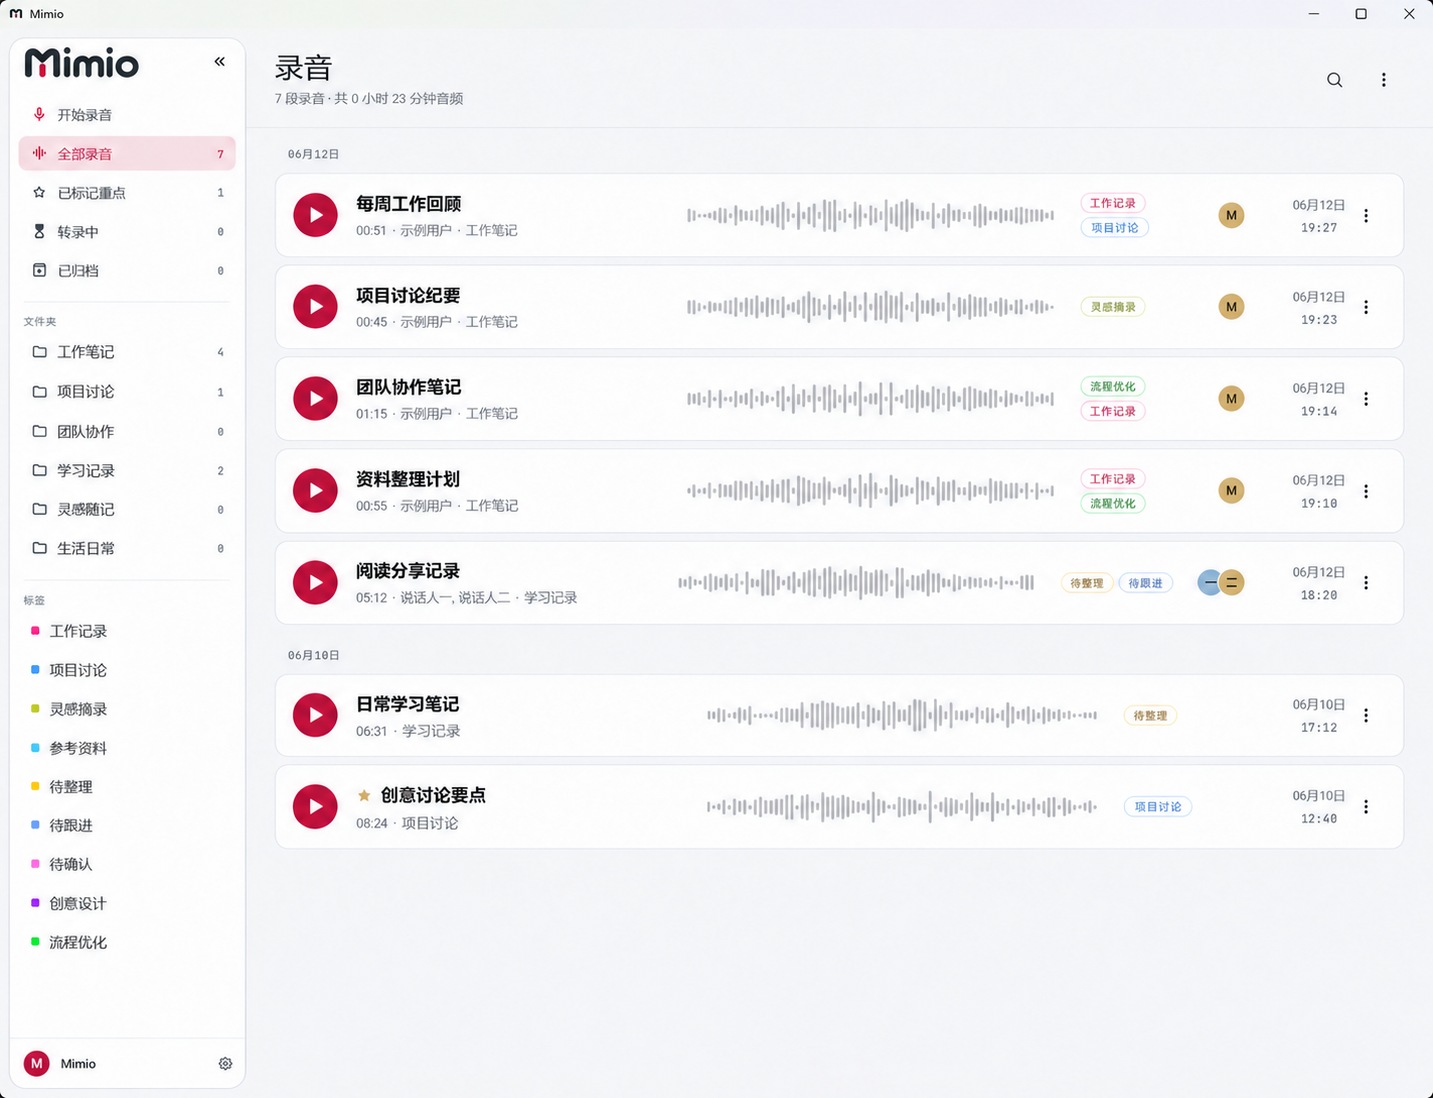
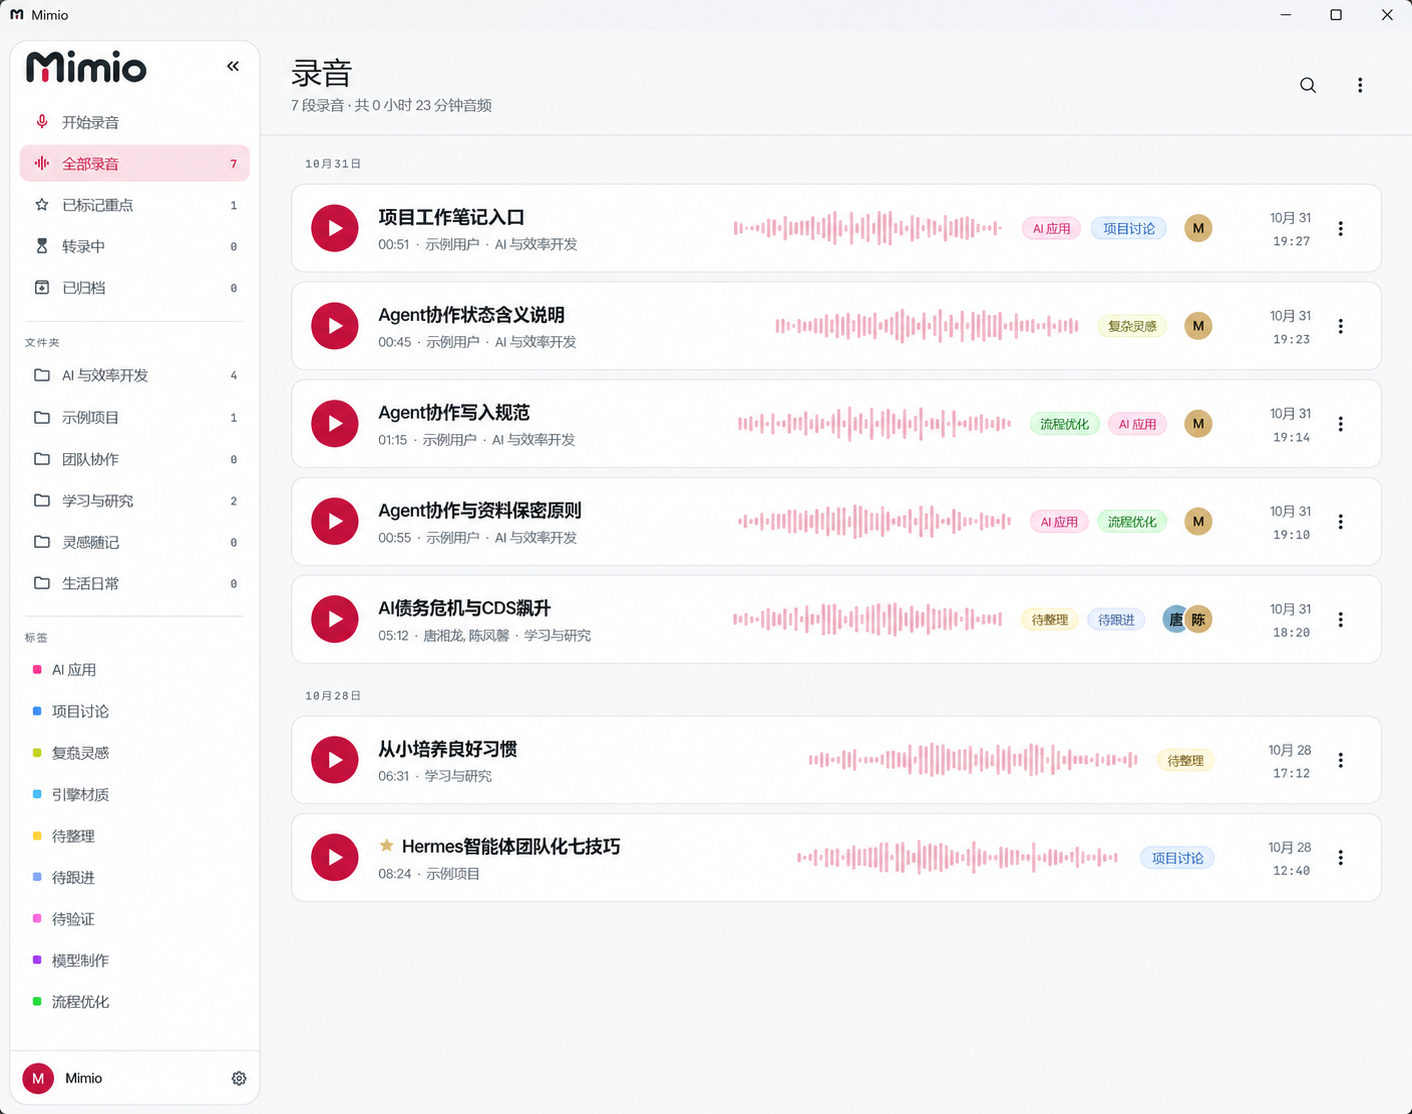
Polish library layout and refresh privacy-edited screenshots for 0.3.40

diff --git a/lib/widgets/tag_chip.dart b/lib/widgets/tag_chip.dart
@@ -6,9 +6,8 @@ import '../theme/appearance.dart';
 import '../theme/typography.dart';
 
 class TagChip extends StatelessWidget {
-  const TagChip({super.key, required this.tag, this.filled = false});
+  const TagChip({super.key, required this.tag});
   final Tag tag;
-  final bool filled;
 
   @override
   Widget build(BuildContext context) {
@@ -16,14 +15,16 @@ class TagChip extends StatelessWidget {
     final c = parseHexColor(tag.color);
     return Container(
       padding: const EdgeInsets.symmetric(horizontal: 9, vertical: 2),
-      decoration: BoxDecoration(
-        color: filled ? c.withValues(alpha: 0.06) : null,
-        border: Border.all(color: c.withValues(alpha: 0.33)),
-        borderRadius: BorderRadius.circular(100),
-      ),
+      decoration: _tagDecoration(c),
       child: Text(
-        tag.name.toUpperCase(),
-        style: SpeakrText.mono(size: 10, color: _tagInk(c), letterSpacing: 1),
+        tag.name,
+        maxLines: 1,
+        overflow: TextOverflow.ellipsis,
+        style: SpeakrText.sans(
+          size: 11,
+          weight: FontWeight.w400,
+          color: _tagInk(c, background: _tagBackground(c)),
+        ),
       ),
     );
   }
@@ -34,13 +35,11 @@ class CustomColorTagChip extends StatelessWidget {
     super.key,
     required this.label,
     required this.color,
-    this.filled = false,
     this.trailing,
     this.onTap,
   });
   final String label;
   final Color color;
-  final bool filled;
   final Widget? trailing;
   final VoidCallback? onTap;
 
@@ -48,18 +47,18 @@ class CustomColorTagChip extends StatelessWidget {
   Widget build(BuildContext context) {
     AppearanceScope.watch(context);
     final inner = Container(
-      padding: const EdgeInsets.symmetric(horizontal: 9, vertical: 4),
-      decoration: BoxDecoration(
-        color: filled ? color.withValues(alpha: 0.06) : null,
-        border: Border.all(color: color.withValues(alpha: 0.33)),
-        borderRadius: BorderRadius.circular(100),
-      ),
+      padding: const EdgeInsets.symmetric(horizontal: 9, vertical: 2),
+      decoration: _tagDecoration(color),
       child: Row(
         mainAxisSize: MainAxisSize.min,
         children: [
           Text(
-            label.toUpperCase(),
-            style: SpeakrText.sans(size: 11, color: _tagInk(color)),
+            label,
+            style: SpeakrText.sans(
+              size: 11,
+              weight: FontWeight.w400,
+              color: _tagInk(color, background: _tagBackground(color)),
+            ),
           ),
           if (trailing != null) const SizedBox(width: 5),
           if (trailing != null) trailing!,
@@ -142,15 +141,29 @@ class _DashedBorderPainter extends CustomPainter {
   bool shouldRepaint(covariant _DashedBorderPainter old) => old.color != color;
 }
 
-// Keep category hues while ensuring readable text on either theme.
-Color _tagInk(Color source) {
+// Opaque, softly tinted surfaces keep tag contrast consistent across parents.
+Color _tagBackground(Color source) => Color.alphaBlend(
+  source.withValues(alpha: SpeakrColors.isDark ? .20 : .13),
+  SpeakrColors.surface,
+);
+
+BoxDecoration _tagDecoration(Color source) => BoxDecoration(
+  color: _tagBackground(source),
+  border: Border.all(
+    color: source.withValues(alpha: SpeakrColors.isDark ? .22 : .12),
+  ),
+  borderRadius: BorderRadius.circular(100),
+);
+
+// Keep category hues while ensuring readable text on the actual tinted surface.
+Color _tagInk(Color source, {Color? background}) {
   var result = source;
-  final background = SpeakrColors.bgAlt.computeLuminance();
+  final luminance = (background ?? SpeakrColors.bgAlt).computeLuminance();
   for (var i = 0; i < 24; i++) {
     final l = result.computeLuminance();
     final ratio =
-        (l > background ? l + .05 : background + .05) /
-        (l > background ? background + .05 : l + .05);
+        (l > luminance ? l + .05 : luminance + .05) /
+        (l > luminance ? luminance + .05 : l + .05);
     if (ratio >= 4.5) break;
     result = Color.lerp(
       result,

diff --git a/test/desktop_library_test.dart b/test/desktop_library_test.dart
@@ -7,6 +7,8 @@ import 'package:intl/date_symbol_data_local.dart';
 import 'package:speakr_app/api/models.dart';
 import 'package:speakr_app/desktop/library/library_desktop_screen.dart';
 import 'package:speakr_app/desktop/shell/desktop_shell.dart';
+import 'package:speakr_app/desktop/widgets/desktop_wave.dart';
+import 'package:speakr_app/desktop/widgets/participant_avatars.dart';
 import 'package:speakr_app/features/library/library_controller.dart';
 import 'package:speakr_app/l10n/strings.dart';
 import 'package:speakr_app/services/preferences/time_format_preference.dart';
@@ -15,7 +17,7 @@ import 'package:speakr_app/theme/typography.dart';
 
 void main() {
   setUpAll(() => initializeDateFormatting('zh_CN'));
-  for (final width in [670.0, 1100.0]) {
+  for (final width in [670.0, 1100.0, 1600.0]) {
     testWidgets('Chinese library fits $width and play navigates explicitly', (
       tester,
     ) async {
@@ -59,7 +61,11 @@ void main() {
                     'status': 'COMPLETED',
                     'audio_duration': 500,
                     'created_at': '2026-10-28T08:00:00Z',
-                    'participants': '张明、王强、李娜',
+                    'participants': '张明、王强、李娜、陈林、赵敏、周宁、孙悦',
+                    'tags': [
+                      {'id': 1, 'name': 'AI 应用', 'color': '#ff3399'},
+                      {'id': 2, 'name': 'Project-AI', 'color': '#3388ff'},
+                    ],
                   }),
                 ),
               ],
@@ -81,6 +87,18 @@ void main() {
       );
       await tester.pumpAndSettle();
       expect(tester.takeException(), isNull);
+      expect(find.byType(DesktopWave), findsOneWidget);
+      if (width >= 1100) {
+        expect(find.text('+4'), findsOneWidget);
+        final gap =
+            tester.getTopLeft(find.byType(ParticipantAvatars)).dx -
+            tester.getTopRight(find.text('Project-AI')).dx;
+        expect(gap, inInclusiveRange(14, 30));
+        expect(
+          tester.getTopLeft(find.text('AI 应用')).dy,
+          tester.getTopLeft(find.text('Project-AI')).dy,
+        );
+      }
       await tester.tap(find.byTooltip('搜索 (Ctrl+K)'));
       await tester.pumpAndSettle();
       expect(find.byType(TextField), findsOneWidget);

diff --git a/lib/desktop/library/library_desktop_screen.dart b/lib/desktop/library/library_desktop_screen.dart
@@ -489,20 +489,22 @@ class _ListRowState extends ConsumerState<_ListRow> {
                         ],
                       ),
                     ),
-                    if (wide) ...[
-                      const SizedBox(width: 24),
+                    ...[
+                      const SizedBox(width: 16),
                       Expanded(
-                        flex: 6,
+                        flex: 4,
                         child: ExcludeSemantics(
                           child: DesktopWave(seed: r.id, height: 34),
                         ),
                       ),
-                      const SizedBox(width: 24),
-                      SizedBox(
-                        width: 120,
+                    ],
+                    if (wide && r.tags.isNotEmpty) ...[
+                      const SizedBox(width: 16),
+                      ConstrainedBox(
+                        constraints: const BoxConstraints(maxWidth: 240),
                         child: Wrap(
-                          spacing: 4,
-                          runSpacing: 4,
+                          spacing: 8,
+                          runSpacing: 6,
                           children: [
                             for (final t in r.tags.take(2)) TagChip(tag: t),
                           ],
@@ -510,7 +512,7 @@ class _ListRowState extends ConsumerState<_ListRow> {
                       ),
                     ],
                     if (wide && (r.participants ?? '').trim().isNotEmpty) ...[
-                      const SizedBox(width: 12),
+                      const SizedBox(width: 14),
                       ParticipantAvatars(participants: r.participants!),
                     ],
                     const SizedBox(width: 18),

diff --git a/lib/desktop/live/live_desktop_screen.dart b/lib/desktop/live/live_desktop_screen.dart
@@ -20,6 +20,7 @@ import '../../services/audio/live_audio_recorder.dart' show CaptureWindow;
 import '../../theme/colors.dart';
 import '../../theme/typography.dart';
 import '../../widgets/speakr_icons.dart';
+import '../../widgets/tag_chip.dart';
 import '../shell/desktop_shortcuts.dart';
 
 class LiveDesktopScreen extends ConsumerStatefulWidget {
@@ -536,11 +537,7 @@ class _RecordingIdentity extends ConsumerWidget {
                 InkWell(
                   onTap: () => controller.toggleTag(tag.name),
                   borderRadius: BorderRadius.circular(100),
-                  child: _IdentityChip(
-                    icon: Icons.sell_outlined,
-                    label: tag.name,
-                    color: parseHexColor(tag.color),
-                  ),
+                  child: TagChip(tag: tag),
                 ),
               MimioMenuButton<String>(
                 tooltip: tr('Tags'),
@@ -774,9 +771,7 @@ class _VideoSourceCard extends StatelessWidget {
             height: 8,
             decoration: BoxDecoration(
               shape: BoxShape.circle,
-              color: title != null
-                  ? SpeakrColors.ok
-                  : SpeakrColors.line,
+              color: title != null ? SpeakrColors.ok : SpeakrColors.line,
             ),
           ),
           const SizedBox(width: 12),

diff --git a/lib/desktop/detail/detail_desktop_screen.dart b/lib/desktop/detail/detail_desktop_screen.dart
@@ -263,9 +263,7 @@ class _DetailPanel extends StatelessWidget {
   const _DetailPanel({required this.child});
   final Widget child;
   @override
-  Widget build(BuildContext context) => MimioPanel(
-    child: child,
-  );
+  Widget build(BuildContext context) => MimioPanel(child: child);
 }
 
 class _TitleBlock extends ConsumerWidget {
@@ -329,7 +327,7 @@ class _TitleBlock extends ConsumerWidget {
                   label: folder.name,
                   color: parseHexColor(folder.color),
                 ),
-              for (final t in recording.tags) TagChip(tag: t, filled: true),
+              for (final t in recording.tags) TagChip(tag: t),
               if ((recording.participants ?? '').isNotEmpty)
                 _MetadataItem(
                   icon: Icons.people_outline,

diff --git a/lib/desktop/widgets/desktop_wave.dart b/lib/desktop/widgets/desktop_wave.dart
@@ -76,7 +76,7 @@ class _DesktopWaveState extends State<DesktopWave>
               painter: _WavePainter(
                 progress: widget.progress,
                 seed: widget.seed,
-                color: widget.color ?? SpeakrColors.ink,
+                color: widget.color ?? SpeakrColors.accent,
                 motion: _motion,
                 showPlayhead: widget.onSeek != null,
               ),

diff --git a/lib/features/live/widgets/recording_widgets.dart b/lib/features/live/widgets/recording_widgets.dart
@@ -453,7 +453,6 @@ class MetadataCard extends StatelessWidget {
                       CustomColorTagChip(
                         label: name,
                         color: _colorFor(name),
-                        filled: true,
                         onTap: tagPickerOpen ? () => onToggleTag(name) : null,
                         trailing: tagPickerOpen
                             ? Text(

diff --git a/lib/features/detail/widgets/folder_tags_editor.dart b/lib/features/detail/widgets/folder_tags_editor.dart
@@ -278,7 +278,6 @@ class _EditorCard extends StatelessWidget {
                     CustomColorTagChip(
                       label: t.name,
                       color: parseHexColor(t.color),
-                      filled: true,
                       onTap: () => onToggleTag(t),
                       trailing: Text(
                         '×',

diff --git a/lib/widgets/mini_wave.dart b/lib/widgets/mini_wave.dart
@@ -33,7 +33,7 @@ class MiniWave extends StatelessWidget {
       child: CustomPaint(
         painter: _MiniWavePainter(
           seed: seed,
-          color: color ?? SpeakrColors.ink,
+          color: color ?? SpeakrColors.accent,
           progress: progress,
           bars: bars,
         ),

diff --git a/docs/showcase/PROMPTS.md b/docs/showcase/PROMPTS.md
@@ -1,17 +1,17 @@
-# Screenshot privacy edits
+# Screenshot privacy edits — 0.3.40
 
-The current images were edited with the built-in image generation tool from real Mimio screenshots supplied by the user. Only the edited outputs are included. Original private screenshots and their filesystem locations are not committed. These replace the earlier invented UI illustrations, which did not accurately represent the product.
+These three images were edited from user-supplied real screenshots with the built-in image generation tool. Originals and their private filesystem locations are not included. AI editing may introduce minor rendering differences.
 
-The layout and theme are based on the real application; AI image editing may introduce minor rendering differences. These are not pixel-exact captures.
-
-## Shared editing instruction
-
-Preserve the complete application window, original Mimio wordmark, burgundy theme, positions, controls, panels, whitespace, waveforms and navigation. Do not redesign, crop, or add UI. Replace the personal avatar with a generic circular M avatar. Replace personal recording titles, author names, folder labels, tag labels, and person badges with generic demonstration content. Use crisp Simplified Chinese matching the existing typography. Do not add labels within the image; disclose the AI editing in the README.
+## Shared prompt
+Preserve the full Mimio window, original layout, typography, burgundy theme, waveforms, controls and navigation. Do not redesign. Replace the personal illustrated avatar with a burgundy circle containing white M. Replace work-project folder and tag labels with 示例项目 and 项目讨论. Preserve other labels.
 
 ## library-sanitized.png
+Replace personal account names with 示例用户, corresponding person badges with M, and the project-specific first title with 项目工作笔记入口. Preserve other recording titles, dates and durations.
 
-Seven demonstration titles: 每周工作回顾, 项目讨论纪要, 团队协作笔记, 资料整理计划, 阅读分享记录, 日常学习笔记, 创意讨论要点. Use 示例用户 and 说话人一 / 说话人二 for people, and M or 一 / 二 for person badges. Replace dates with June 12 and June 10. Folder labels: 工作笔记, 项目讨论, 团队协作, 学习记录, 灵感随记, 生活日常. Tag labels: 工作记录, 项目讨论, 灵感摘录, 参考资料, 待整理, 待跟进, 待确认, 创意设计, 流程优化. Apply the same replacements to row metadata and badges. A second text-only pass corrected the first four folder subtitles to 工作笔记 and their pink badges to 工作记录.
+## detail-sanitized.png
+Preserve the public-program transcript, summary, public speaker names and playback position. Only replace the sidebar project labels and personal avatar.
 
 ## recording-sanitized.png
+Preserve the timer, waveform, selected tags, sources and recording controls. Only replace the sidebar project labels and personal avatar.
 
-Apply the same sidebar and avatar replacements. Keep the recording workspace, timer, waveform and controls. Use 学习记录 for the selected folder, 灵感摘录 and 待跟进 for the selected tags. Do not change the main recording title or controls.
+The screenshot owner confirmed that the public-program content contains no personal/private recording information and may be shown.

diff --git a/README.md b/README.md
@@ -10,11 +10,15 @@ Mimio is an independently maintained desktop client based on [Minutes for Speakr
 
 ## A look at Mimio
 
-Based on actual Mimio screenshots, with recording titles, names, folder/tag labels and the personal avatar replaced using AI for privacy. The images retain the application's layout and theme; AI editing may introduce minor rendering differences.
+Based on actual Mimio 0.3.40 screenshots. Personal account names, work-project labels and the avatar were replaced using AI for privacy. The public-program transcript and summary are retained with the screenshot owner’s permission. The images retain the application's layout and theme; AI editing may introduce minor rendering differences.
 
 **Recording library** — browse and organize your recordings.
 
 ![Mimio recording library screenshot with AI-replaced demo text and avatar](docs/showcase/library-sanitized.png)
+
+**Transcript and summary** — review the transcript alongside the generated summary.
+
+![Mimio transcript and summary with privacy-edited sidebar](docs/showcase/detail-sanitized.png)
 
 **Recording workspace** — recording controls, waveform and audio source selection.
 
@@ -24,8 +28,8 @@ Based on actual Mimio screenshots, with recording titles, names, folder/tag labe
 
 | | Version | What it contains |
 | --- | --- | --- |
-| Current source | **0.3.36** | Recorder capsule, theme consistency, server settings synchronization and credential privacy fixes |
-| Published Windows download | **[0.3.26](https://github.com/i-iooi-i/Mimio/releases/tag/mimio-v0.3.26)** | The previous portable release, including the Windows location-startup fix |
+| Current source | **0.3.40** | Recorder capsule, theme consistency, server settings synchronization and credential privacy fixes |
+| Published Windows download | **[0.3.40](https://github.com/i-iooi-i/Mimio/releases/tag/mimio-v0.3.40)** | Latest portable release, including compact library spacing, unified tags and theme-colored waveforms |
 
 The features below describe the current source. A source update does not replace the downloadable release. Mimio currently validates **Windows x64**; Android/iOS code inherited from upstream is not a verified Mimio release.
 

diff --git a/README.zh-CN.md b/README.zh-CN.md
@@ -10,11 +10,15 @@ Mimio 是基于 [Minutes for Speakr](https://github.com/Inrego/Minutes-for-Speak
 
 ## 界面一览
 
-以下图片以 **Mimio 真实界面截图**为底图，通过 AI 将录音标题、人名、文件夹、标签和个人头像替换为演示内容，保留原有布局与主题。AI 编辑可能带来少量文字或渲染差异。
+以下图片基于 **Mimio 0.3.40 真实截图**，使用 AI 替换个人账号名、工作项目名称和个人头像。经截图提供者确认，公开节目的转录与摘要予以保留。AI 编辑可能带来少量渲染差异。
 
 **录音库** · 浏览和整理录音资料。
 
 ![Mimio 录音库截图，文字与个人头像已通过 AI 替换为演示内容](docs/showcase/library-sanitized.png)
+
+**转录与摘要** — 对照查看转录内容与生成的摘要。
+
+![Mimio 转录与摘要，侧边栏已做隐私替换](docs/showcase/detail-sanitized.png)
 
 **录音工作区** · 录音控制、实时波形和声音来源选择。
 
@@ -24,8 +28,8 @@ Mimio 是基于 [Minutes for Speakr](https://github.com/Inrego/Minutes-for-Speak
 
 | | 版本 | 说明 |
 | --- | --- | --- |
-| 当前源码 | **0.3.36** | 胶囊录音条、主题统一、服务端设置同步与凭据隐私修复 |
-| 已发布的 Windows 下载 | **[0.3.26](https://github.com/i-iooi-i/Mimio/releases/tag/mimio-v0.3.26)** | 上一个绿色版，包含启动时触发 Windows 定位的修复 |
+| 当前源码 | **0.3.40** | 胶囊录音条、主题统一、服务端设置同步与凭据隐私修复 |
+| 已发布的 Windows 下载 | **[0.3.40](https://github.com/i-iooi-i/Mimio/releases/tag/mimio-v0.3.40)** | 最新绿色版，包含紧凑列表布局、统一标签和主题色波形 |
 
 以下功能介绍以当前源码为准。推送源码不等于更新下载包。本分支目前验证的是 **Windows x64**；仓库保留上游 Android/iOS 代码，但没有将其作为已验证的 Mimio 移动端发布。
 
